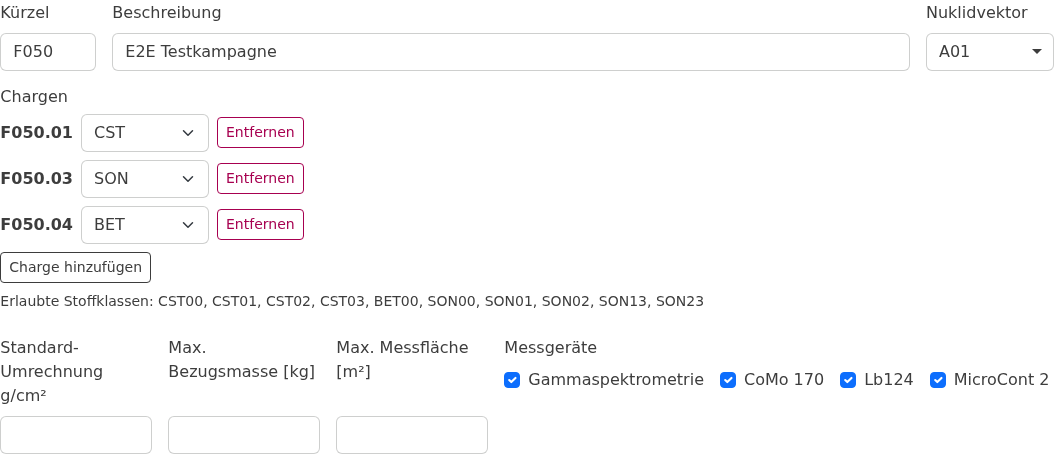
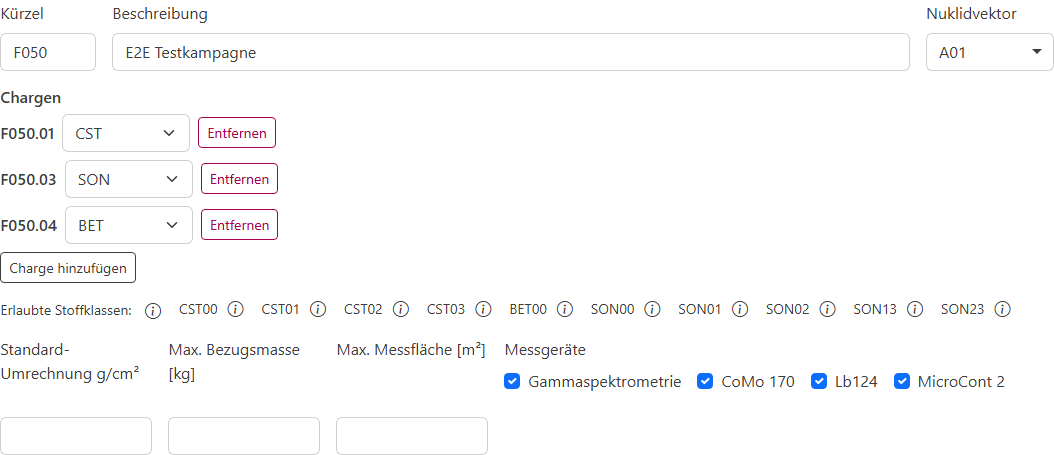
docs: sync from fmblog 59c0b29c

diff --git a/docs/user-guide/reports.md b/docs/user-guide/reports.md
@@ -6,12 +6,12 @@ Die Gebindeabrechnung erzeugt ein PDF im A4-Querformat mit **Tagesabrechnung –
 
 Neue offizielle Abrechnungen erfordern das Recht **Abrechnungen erzeugen** (`reports.create`), eine Online-Anmeldung und einen erreichbaren Dienst. Gleichen Sie lokale Änderungen vorher ab und klären Sie konkurrierende Versionen.
 
-1. Unter **Abrechnungen** optional nach FMK filtern und Gebinde sowie Abrechnungsdatum wählen. Es sind ausschließlich vollständig gemessene Gebinde auswählbar. **Alle vollständig gemessenen Gebinde auswählen** hebt den FMK-Filter auf und ersetzt die bisherige Auswahl durch alle vollständigen Gebinde.
+1. Unter **Tagesabrechnung** optional nach FMK filtern und vollständige Messobjekte sowie das Abrechnungsdatum wählen. **Alle vollständigen Messobjekte auswählen** hebt den FMK-Filter auf. Vor dem Signieren werden sämtliche enthaltenen Gebinde angezeigt. Einzelne Mitglieder können nicht ausgelassen werden; fehlende Messungen oder unvollständige Gebinde verhindern den endgültigen Abschluss.
 2. **Vorschau erstellen** und beide Teile einschließlich der Hinweise prüfen. Der Dienst erfasst dafür konkrete zentrale Datenversionen.
 3. Die Autorisierung genau dieser Vorschau bestätigen und **Signieren, zeitstempeln und zentral abschließen** wählen.
 4. Nach zentralem Abschluss das PDF ausgeben beziehungsweise unter **Historie → PDF prüfen und speichern** exportieren.
 
-Einbezogen werden die aktuellen gültigen Messversionen der ausgewählten Gebinde, auch bereits abgerechnete Messungen. Der Dienst prüft Ausgangsstand und Rechte vor Veröffentlichung erneut. Hat sich der Stand geändert, muss eine neue Vorschau geprüft werden.
+Einbezogen werden die aktuellen gültigen Messversionen aller Gebinde der ausgewählten Messobjekte, auch bereits abgerechnete Messungen. Der Dienst prüft Ausgangsstand und Rechte vor Veröffentlichung erneut. Hat sich der Stand geändert, muss eine neue Vorschau geprüft werden.
 
 Sind Gebinde bereits in einer gültigen Abrechnung enthalten, zeigt die Vorschau die betroffenen Gebinde und Abrechnungen. Bestätigen Sie den vollständigen Ersatz ausdrücklich. Erst beim erfolgreichen zentralen Abschluss werden die früheren Abrechnungen vollständig ungültig, auch wenn nur einzelne ihrer Gebinde erneut abgerechnet werden. Ein Abbruch lässt sie gültig. Das erneute Herunterladen eines vorhandenen PDFs erzeugt keine neue Abrechnung.
 
@@ -22,6 +22,8 @@ Bei unterbrochener Abschlussantwort bleibt die autorisierte Anfrage lokal erhalt
 Die folgenden Abbildungen zeigen die fachliche Darstellung; ältere Aufnahmen enthalten noch die frühere Exportbeschriftung.
 
 ![Vorschau einer Gebindeabrechnung](../screenshots/gebindeabrechnung-vorschau.png)
+
+Die gemeinsame Pfadentscheidung berücksichtigt sämtliche Mitglieder eines Messobjekts. Unterschiedliche Stoffklassen beziehungsweise SON-/NEM-Unterteilungen bleiben auf ihren bisherigen Einzelblättern. Ein zusätzliches oder umgeordnetes Gebinde kann die gemeinsame Pfadwahl ändern und bestehende Abrechnungen ungültig machen. Historische PDFs werden dadurch nicht verändert.
 
 ## Blattaufteilung und Kopfzeilen
 
@@ -39,7 +41,7 @@ Die Blätter werden nach FMK, Charge und Freigabepfad aufgeteilt. **SON und NEM 
 
 Pro FMK ist eine Charge je Stoffart erforderlich. Mehrere Chargen derselben Stoffart müssen vor der Abrechnung korrigiert werden. Bestandsdaten bleiben hierfür bearbeitbar.
 
-„Nicht freigabefähig“ bleibt ein eigener Abschnitt; danach folgen die Freigabepfade in FMK-Reihenfolge. Jeder Abschnitt beginnt auf einer neuen Seite. PDF und Vorschau enthalten zuerst alle Tagesabrechnungsabschnitte mit Maximalwerten, danach alle Gebindeabrechnungsabschnitte mit Details in derselben Blattreihenfolge.
+„Nicht freigabefähig“ bleibt ein eigener Abschnitt; danach folgen die Abschnitte der Freigabepfade. Jeder Abschnitt beginnt auf einer neuen Seite. PDF und Vorschau enthalten zuerst alle Tagesabrechnungsabschnitte mit Maximalwerten, danach alle Gebindeabrechnungsabschnitte mit Details in derselben Blattreihenfolge.
 
 **Mischgebinde** erscheinen auf jedem betroffenen Blatt. Die Messwerte bleiben gleich, Reststoffmasse und Gesamtaktivität beziehen sich jeweils ausschließlich auf die zugehörigen Stoffanteile. Die Gebindeanzahlen unterschiedlicher Materialblätter dürfen deshalb nicht zu einer eindeutigen Gesamtgebindeanzahl addiert werden.
 
@@ -103,7 +105,7 @@ Die nummerierten Fußnoten beginnen je Abrechnung bei 1 und werden auf Folgeseit
 | Tagesabrechnung | Reststoffmasse | Gesamtaktivität | OG |
 
 - **M**: massenspezifisch; **A**: flächenspezifisch. OG, FGW, SW und KF tragen diese Indizes.
-- **OG** (Fußnote 2 in der Gebindeabrechnung, Fußnote 3 in der Tagesabrechnung): „Obere Grenze Überdeckungsintervall der spez. Aktivität nach DIN 25457-1“.
+- **OG** (Fußnote 2 in der Gebindeabrechnung, Fußnote 3 in der Tagesabrechnung): „Obere Grenze Überdeckungsintervall der spez. Aktivität nach DIN 11929“.
 - **\***: unter Berücksichtigung des Korrekturfaktors (KF).
 - **\*\***: unter Berücksichtigung des Schwellenwertes (SW).
 - Die Maximalwertauswahl, Aktivitätsformel und anteilige Behandlung von Mischgebinden werden unmittelbar auf der Abrechnung erläutert.

diff --git a/docs/reference/formulas.md b/docs/reference/formulas.md
@@ -28,20 +28,33 @@ $$
 
 Umrechnungen zwischen Bq/g und Bq/cm² benötigen eine Umrechnung g/cm² (z. B. aus Flächenmasse).
 
-## 5) Gebindeabrechnung: maßgebliche Messung und Aktivität
+## 5) Messobjekt und automatische Pfadwahl
 
-Je Messung wird die größere der verfügbaren massen- und flächenspezifischen Ausschöpfungen verglichen:
-
-$$
-q = \max(OG_M / FGW_M, OG_A / FGW_A)
-$$
-
-Die angezeigten OG enthalten bereits KF, die FGW bereits SW. Pro Gebinde wird eine Messung mit der höchsten ungerundeten Ausschöpfung übernommen. Die Aktivität je Stoffanteil beträgt:
+Die zulässigen Pfade des Messobjekts sind die Schnittmenge der zulässigen Hauptpfade seiner Gebinde. Für jeden Kandidaten müssen sämtliche gültigen Messungen jedes Gebindes die Primär- und Zusatzprüfung bestehen. Massenpfade werden vor Flächenpfaden geprüft; innerhalb einer Einheit gilt aufsteigend:
 
 $$
-A[\mathrm{Bq}] = OG_M[\mathrm{Bq/g}] \cdot m_{\mathrm{Reststoffanteil}}[\mathrm{kg}] \cdot 1000
+S(p) = \min_m \left(FGW_{NV(m),p} \cdot SW_{Jahr(m),Gerät(m),p}\right)
 $$
+
+Das manuelle Messdatum hat Vorrang. KF bleibt Bestandteil des Bestehensvergleichs und gehört nicht zum Sortierwert. Der erste gemeinsam bestandene Pfad gilt für alle Mitglieder.
+
+## 6) Maßgebliche Messungen und Gesamtaktivität
+
+In der Tagesabrechnung werden die Messungen mit der höchsten massen- und flächenspezifischen Ausschöpfung getrennt bestimmt. Fallen beide Maxima auf dieselbe Messung, wird diese einmal angezeigt. Die Gesamtaktivität verwendet weiterhin die Messung mit der höchsten **Massenausschöpfung**:
+
+$$
+m^* = \operatorname{argmax}_m \frac{OG_{M,m}}{FGW_{M,m}}, \qquad
+A[\mathrm{Bq}] = OG_{M,m^*}[\mathrm{Bq/g}] \cdot m_{\mathrm{Reststoff}}[\mathrm{kg}] \cdot 1000
+$$
+
+Die angezeigten OG enthalten bereits KF, die FGW bereits SW. Vergleiche und Summen verwenden ungerundete Werte.
 
 Die erfassten Stoffklassenmassen sind bereits Reststoffmassen (Nettomasse ReVK abzüglich Innentara, soweit vorhanden). Die Auswertung zieht keine Innentara erneut ab. Bei Mischgebinden werden nur die Massen der zum jeweiligen Blatt gehörenden Klassen verwendet. Aktivitätssummen entstehen vor Anzeigerundung; fehlende Werte ergeben keine Nullaktivität.
 
 Details und Beispiel: [Gebindeabrechnung](../user-guide/reports.md). Entscheidungen: [ADR-005](../architecture/adr-005-gebindeabrechnung.md).
+
+## 7) MC2-Messhilfe
+
+Für eine angenommene Bruttoimpulsrate wird der Nulleffekt abgezogen und mit der bestehenden MC2-Auswertung die obere Vertrauensgrenze berechnet. Gesucht wird die größte nichtnegative Bruttoimpulsrate, die alle erforderlichen Pfadprüfungen erfüllt. Dazu entspricht die zulässige unkorrigierte OG je Prüfung `NV-Freigabewert × SW × KF`. Die engste Primär-/Zusatzgrenze bestimmt die zulässige Rate; die Anzeige wird auf 0,01 Ips abgerundet.
+
+Standardwerte: Nulleffekt 5 Ips, Nulleffektmesszeit 100 s, Messzeit 10 s. Die Detektorfläche beträgt 177 cm². Fehlende Bezugsgrößen oder Freigabewerte ergeben keine geschätzte Grenze.

diff --git a/docs/user-guide/containers.md b/docs/user-guide/containers.md
@@ -1,10 +1,24 @@
 # Gebinde & Messungen
 
-In FMB Log ist ein **Gebinde** die zentrale Einheit. Messungen (aus Protokollen) werden immer einem Gebinde zugeordnet, damit Sie später:
+Ein **Messobjekt** fasst Gebinde einer FMK unter einer eindeutigen **MeObj-Nr.** zusammen. Jedes Gebinde enthält genau eine Stoffklasse; bei NEM01/NEM02 zusätzlich genau eine Metallart. Messungen (aus Protokollen) werden immer einem Gebinde zugeordnet, damit Sie später:
 
 - alle Messungen eines Gebindes gesammelt sehen,
 - deren Historie nachvollziehen können (Revisionen),
 - und daraus Gebindeabrechnungen erzeugen.
+
+## Messobjekte
+
+Unter **Messobjekte** legen Sie Messobjekte mit MeObj-Nr. und FMK an. Die Übersicht zeigt Gebindeanzahl, gemeinsamen Freigabepfad und Freigabestatus. In den Details sehen Sie je Gebinde, welche Pfade bestanden, ausgeschlossen oder noch nicht bewertbar sind. **Gebinde hinzufügen** öffnet ein neues Gebinde mit vorgegebenem Messobjekt. Bestehende Gebinde können innerhalb derselben FMK einem anderen Messobjekt zugeordnet werden.
+
+Im Gebindeformular wählen Sie zuerst das Messobjekt. Die FMK und ihre zulässigen Chargen, Stoffklassen und Freigabepfade werden daraus übernommen. Die FMK eines belegten Messobjekts kann nicht gewechselt werden; nur leere Messobjekte können gelöscht werden.
+
+Ein gemeinsamer Pfad muss für **alle Gebinde und sämtliche gültigen Messungen** einschließlich Zusatzprüfungen bestehen. Rot bedeutet, dass kein gemeinsamer Pfad mehr möglich ist. Gelb bedeutet, dass Daten, Messungen oder der Abschluss von Gebinden fehlen. Lokale Änderungen werden als vorläufig gekennzeichnet. Einzelne ausgeschlossene Pfade verhindern die Freigabe nicht, wenn ein anderer gemeinsamer Pfad besteht.
+
+### Messhilfe
+
+Die aufklappbare **Messhilfe** im Gebinde zeigt je zulässigem Pfad die maximal zulässige **Bruttoimpulsrate in Ips** für MicroCont 2 sowie die NV-Freigabewerte einschließlich SW für MC2 und Gammaspektrometrie. Sie können Messdatum, Nulleffekt, Nulleffektmesszeit und Messzeit ändern. Vorgaben sind 5 Ips, 100 s und 10 s. Bei einer ausgewählten Messung hat deren manuell hinterlegtes Messdatum Vorrang.
+
+Die Ips-Grenze berücksichtigt die obere Vertrauensgrenze, KF/SW und Zusatzprüfungen. Die verwendete Umrechnung wird angezeigt. Änderungen in der Messhilfe verändern keine gespeicherten Messungen. Ein nicht gemeinsam zulässiger Pfad bleibt entsprechend gekennzeichnet.
 
 ## Gebindeübersicht
 
@@ -29,7 +43,7 @@ Die Spalte **Messungen** zählt bewusst nur die **aktuellen Revisionen**. Das ma
 
 In der Detailansicht bearbeiten und prüfen Sie ein Gebinde. Typische Aufgaben sind:
 
-- Stammdaten am Gebinde (Herkunft, Datenblatt, FMK) ergänzen,
+- Stammdaten am Gebinde (Herkunft, Datenblatt, Messobjekt) ergänzen,
 - Messdaten pro Messung (Masse/Fläche, Umrechnung, Bemerkung) ergänzen oder korrigieren,
 - den Status **Vollständig** setzen oder zurücknehmen,
 - Messungen auswählen und Protokolle/ISO-Werte prüfen,

diff --git a/docs/user-guide/fmk.md b/docs/user-guide/fmk.md
@@ -30,9 +30,9 @@ Die vier Messgeräte werden über direkt sichtbare Checkboxen ausgewählt; mehre
 
 ## Freigabepfade (Reihenfolge)
 
-Die Prüfung erfolgt in der FMK in einer festgelegten Reihenfolge. Die Anwendung prüft pfadweise und weist einem Gebinde den **ersten** Pfad zu, den **alle** gültigen Messungen des Gebindes bestehen. Damit entspricht die Auswertung dem üblichen Vorgehen: Man startet mit den „strengeren“/kleineren Pfaden und arbeitet sich nach oben.
+Die FMK hinterlegt die zulässigen Freigabepfade je Abrechnungsgruppe. Die Reihenfolge wird automatisch bestimmt: zuerst Hauptpfade in Bq/g, danach Hauptpfade in Bq/cm², jeweils aufsteigend nach **NV-Freigabewert × SW**. KF beeinflusst die Prüfung, aber nicht die Reihenfolge. Bei mehreren Messjahren beziehungsweise Messgeräten zählt je Pfad der kleinste dieser Werte über die gültigen Messungen des Messobjekts. Gleichstände werden nach dem zentralen Pfadkatalog aufgelöst.
 
-In der UI ändern Sie die Reihenfolge über Pfeil‑Buttons. Zusätzlich können Pfade manuell ergänzt werden. Bei Auswahl eines Nuklidvektors werden die geprüften/zulässigen Pfade automatisch übernommen und sinnvoll sortiert; manuell hinzugefügte Pfade bleiben erhalten.
+Ein Messobjekt erhält den ersten gemeinsamen Pfad, den sämtliche gültigen Messungen aller zugehörigen Gebinde einschließlich Zusatzprüfungen bestehen. Die manuelle Sortierung mit Pfeilen entfällt. Zulässige Pfade und ihre Zusatzprüfungen bleiben einstellbar.
 
 ### Pfadprüfung je Messjahr
 
@@ -98,8 +98,8 @@ Wenn die FMK inzwischen geändert wurde, erscheint **FMK-Änderungen prüfen**. 
 Bei konkurrierenden Fassungen wählen Sie die gewünschten SW- und KF-Werte einzeln im [Konfliktvergleich](./search.md#konflikte-auflosen). Ist bereits die übergeordnete FMK ungeklärt, lösen Sie zuerst deren Konflikt.
 
 ::: info Zusammenfassung (FMK)
-- FMK verbindet NV, Messgeräte und Pfad‑Reihenfolge zu einem einheitlichen Auswerte‑Set.
-- Pfade werden in Reihenfolge geprüft; der erste bestandene Pfad wird zugewiesen.
+- FMK verbindet NV, Messgeräte und zulässige Pfade zu einem einheitlichen Auswerte‑Set.
+- Pfade werden automatisch geordnet; der erste gemeinsam bestandene Pfad wird dem gesamten Messobjekt zugewiesen.
 - Optionaler Sekundärpfad ermöglicht Kombinationen wie „1a (mit OF)“.
 - SW/KF werden pro Jahr (aus Messdatum) und optional je Gerät/Pfad angewandt.
 :::

diff --git a/docs/admin-guide/technical.md b/docs/admin-guide/technical.md
@@ -28,7 +28,7 @@ Schemaänderungen des Dienstes stehen in `server/migrations/` und werden ausdrü
 
 Die API wird innerhalb des gepinnten SSH-Subsystems angesprochen. Der Dienst bietet darüber weder Shell/SFTP noch Portweiterleitung an. Der administrative sshd ist davon unabhängig. Eine Freigabe für HTTP auf Port 80 ist kein Beweis für eine SSH-Freigabe.
 
-Neue Fachoperationen verwenden `fmblog-operation/v2` mit Schema 2, CIDv1/BLAKE3 und kanonischem DAG-CBOR. Originalprotokolle und PDFs erhalten `raw`-CIDs über ihre Originalbytes. Historische TSA-/SHA-256-Nachweise werden nicht umgeschrieben. Details stehen in [ADR-007](../architecture/adr-007-server-ipld.md), [Datenmodell](../reference/data-model.md) und [Sicherheitsarchitektur](./security.md).
+Neue Fachoperationen verwenden `fmblog-operation/v3` mit Schema 3 (historische v2-Vorgänge bleiben lesbar), CIDv1/BLAKE3 und kanonischem DAG-CBOR. Originalprotokolle und PDFs erhalten `raw`-CIDs über ihre Originalbytes. Historische TSA-/SHA-256-Nachweise werden nicht umgeschrieben. Details stehen in [ADR-007](../architecture/adr-007-server-ipld.md), [Datenmodell](../reference/data-model.md) und [Sicherheitsarchitektur](./security.md).
 
 ## Installation und Diagnose
 

diff --git a/docs/reference/data-model.md b/docs/reference/data-model.md
@@ -24,7 +24,7 @@ Die verbindliche SQL-Definition steht in `server/migrations/`. Die lokalen Tabel
 
 ## IPLD und Signaturen
 
-Operationen verwenden `fmblog-operation/v2` mit Schema 2. DAG-CBOR kodiert Verweise als IPLD-Links. Die Ed25519-Signatur bindet die kanonische Nutzlast; die CID wird anschließend aus der vollständigen signierten Hülle berechnet. Neue CIDs verwenden BLAKE3 mit 32 Byte Digest. Originaldateien und PDFs verwenden den `raw`-Codec.
+Operationen verwenden `fmblog-operation/v3` mit Schema 3 (historische v2-Vorgänge bleiben lesbar). DAG-CBOR kodiert Verweise als IPLD-Links. Die Ed25519-Signatur bindet die kanonische Nutzlast; die CID wird anschließend aus der vollständigen signierten Hülle berechnet. Neue CIDs verwenden BLAKE3 mit 32 Byte Digest. Originaldateien und PDFs verwenden den `raw`-Codec.
 
 ## Abrechnungen und Reset-Stub
 
